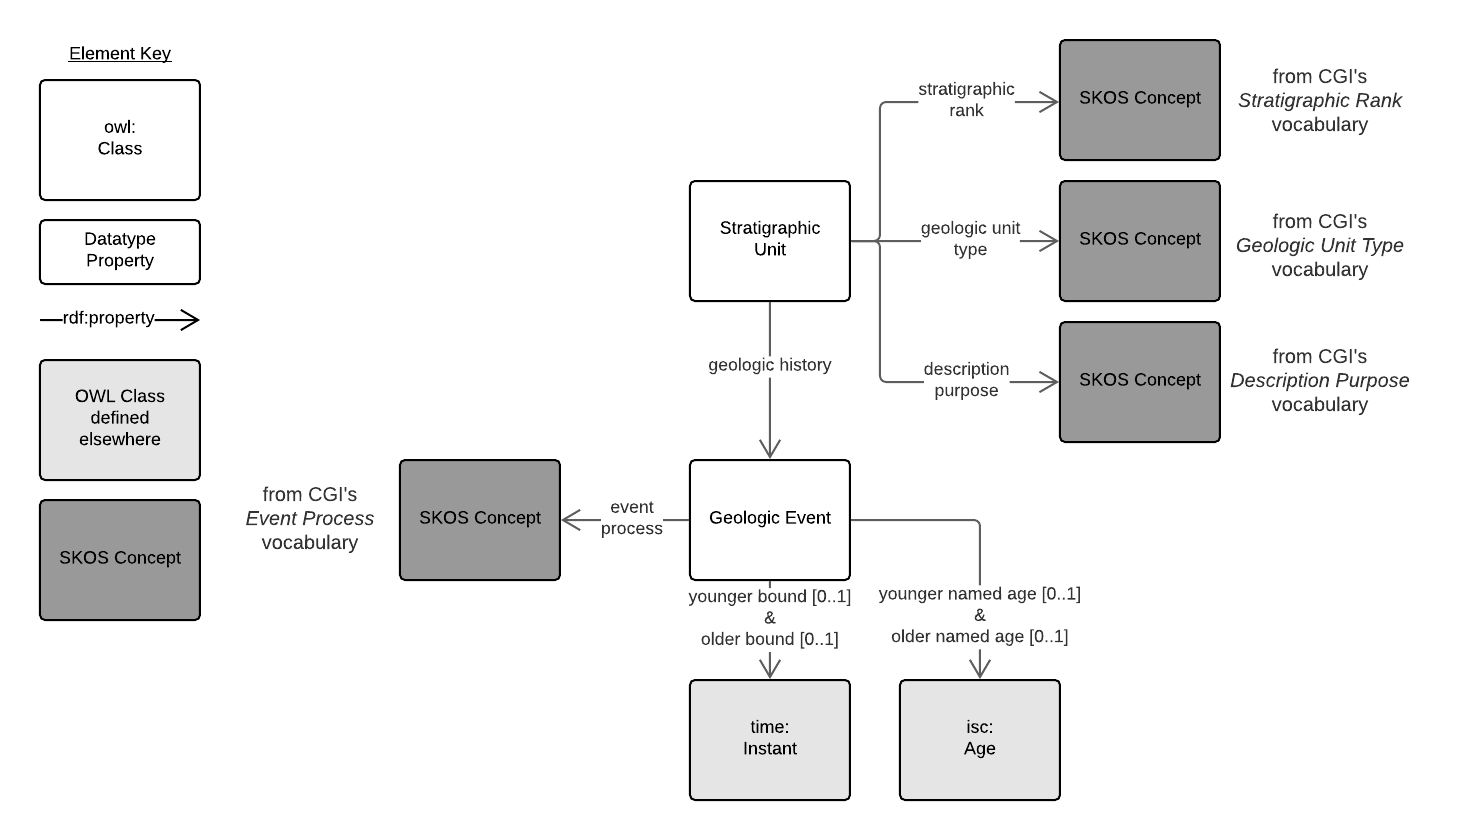
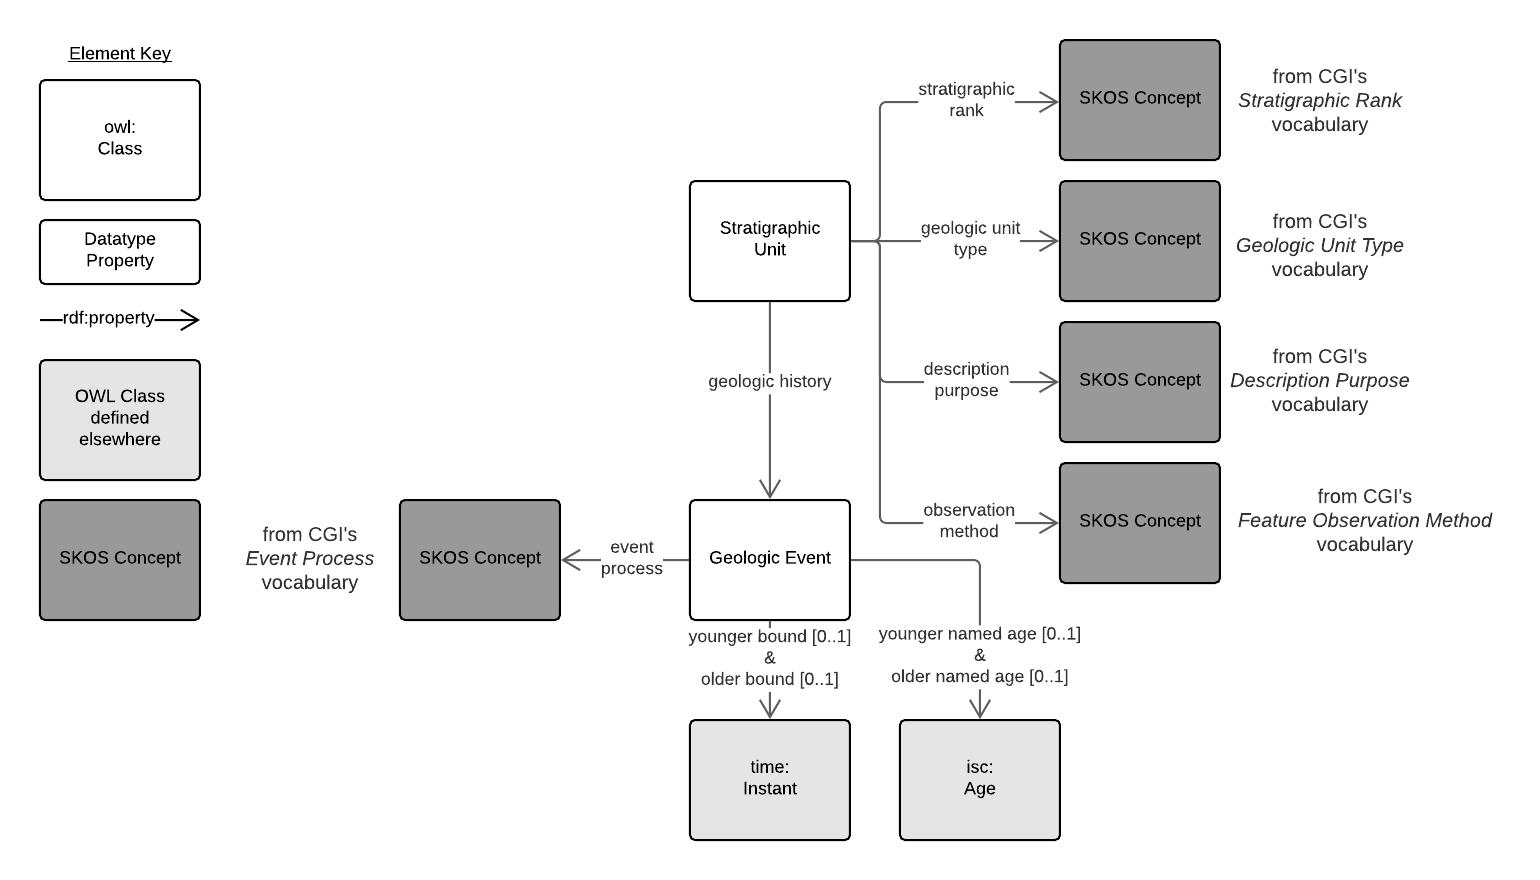
added observationMethod

Changed region(s): [[0.0, 0.031, 0.9863, 0.9595]]

diff --git a/su.html b/su.html
@@ -223,6 +223,11 @@
     <dl>
         <dt>URI</dt>
         <dd><code>https://linked.data.gov.au/def/su/ont</code></dd>
+        <dt><a class="proplink" href="https://www.dublincore.org/specifications/dublin-core/dcmi-terms/#http://purl.org/dc/terms/publisher">Publisher</a>(s)</dt>
+        <dd>
+            
+    <a href="https://linked.data.gov.au/org/ga">Geoscience Australia</a><br/>
+        </dd>
         <dt><a class="proplink" href="https://www.dublincore.org/specifications/dublin-core/dcmi-terms/#http://purl.org/dc/terms/creator">Creator</a>(s)</dt>
         <dd>
             
@@ -252,6 +257,8 @@
         <dd>2020-11-11</dd>
         <dt><a class="proplink" href="https://www.dublincore.org/specifications/dublin-core/dcmi-terms/#http://purl.org/dc/terms/modified">Modified</a></dt>
         <dd>2020-11-11</dd>
+        <dt>Version Information</dt>
+        <dd>Beta - first working version but incomplete.</dd>
         <dt>Ontology RDF</dt>
         <dd><a href="data_file.ttl">RDF (turtle)</a></dd>
         <dt>Code Repository</dt>
@@ -320,8 +327,8 @@
                 <td>
                     <a href="https://linked.data.gov.au/def/su/youngerNamedAge">su:youngerNamedAge</a><sup class="sup-op" title="object property">op</sup> <span class="cardinality">max</span> 1<br/>
                     <a href="https://linked.data.gov.au/def/su/olderBound">su:olderBound</a><sup class="sup-op" title="object property">op</sup> <span class="cardinality">max</span> 1<br/>
-                    <a href="https://linked.data.gov.au/def/su/olderNamedAge">su:olderNamedAge</a><sup class="sup-op" title="object property">op</sup> <span class="cardinality">max</span> 1<br/>
                     <a href="https://linked.data.gov.au/def/su/youngerBound">su:youngerBound</a><sup class="sup-op" title="object property">op</sup> <span class="cardinality">max</span> 1<br/>
+                    <a href="https://linked.data.gov.au/def/su/olderNamedAge">su:olderNamedAge</a><sup class="sup-op" title="object property">op</sup> <span class="cardinality">max</span> 1<br/>
                 </td>
             </tr>
             <tr>
@@ -372,10 +379,11 @@
             <tr>
                 <th>In domain of</th>
                 <td>
-                    <a href="https://linked.data.gov.au/def/su/geologicHistory">su:geologicHistory</a><sup class="sup-op" title="object property">op</sup><br/>
-                    <a href="https://linked.data.gov.au/def/su/descriptionPurpose">su:descriptionPurpose</a><sup class="sup-op" title="object property">op</sup><br/>
+                    <a href="https://linked.data.gov.au/def/su/observationMethod">su:observationMethod</a><sup class="sup-op" title="object property">op</sup><br/>
                     <a href="https://linked.data.gov.au/def/su/geologicUnitType">su:geologicUnitType</a><sup class="sup-op" title="object property">op</sup><br/>
+                    <a href="https://linked.data.gov.au/def/su/geologicHistory">su:geologicHistory</a><sup class="sup-op" title="object property">op</sup><br/>
                     <a href="https://linked.data.gov.au/def/su/stratigraphicRank">su:stratigraphicRank</a><sup class="sup-op" title="object property">op</sup><br/>
+                    <a href="https://linked.data.gov.au/def/su/descriptionPurpose">su:descriptionPurpose</a><sup class="sup-op" title="object property">op</sup><br/>
                 </td>
             </tr>
         </table>
@@ -388,6 +396,7 @@
         <li><a href="#eventProcess">eventProcess</a></li>
         <li><a href="#geologicHistory">geologicHistory</a></li>
         <li><a href="#geologicUnitType">geologicUnitType</a></li>
+        <li><a href="#observationMethod">observationMethod</a></li>
         <li><a href="#olderBound">olderBound</a></li>
         <li><a href="#olderNamedAge">olderNamedAge</a></li>
         <li><a href="#stratigraphicRank">stratigraphicRank</a></li>
@@ -498,6 +507,33 @@
                 <th>Super-properties</th>
                 <td>
                     <a href="http://purl.org/dc/terms/type">dcterms:type</a>
+                </td>
+            </tr>
+            <tr>
+                <th>Domain(s)</th>
+                <td>
+                    <a href="https://linked.data.gov.au/def/su/StratigraphicUnit">su:StratigraphicUnit</a><sup class="sup-c" title="class">c</sup>
+                </td>
+            </tr>
+            <tr>
+                <th>Range(s)</th>
+                <td>
+                    <a href="http://www.w3.org/2004/02/skos/core#Concept">skos:Concept</a><sup class="sup-c" title="class">c</sup>
+                </td>
+            </tr>
+        </table>
+    </div>
+    <div class="entity property" id="observationMethod">
+        <h3>observationMethod<sup title="object property" class="sup-op">op</sup></h3>
+        <table>
+            <tr>
+                <th>URI</th>
+                <td><code>https://linked.data.gov.au/def/su/observationMethod</code></td>
+            </tr>
+            <tr>
+                <th>Source</th>
+                <td>
+                    <a href="http://www.opengis.net/doc/geosciml/4.1">http://www.opengis.net/doc/geosciml/4.1</a>
                 </td>
             </tr>
             <tr>
